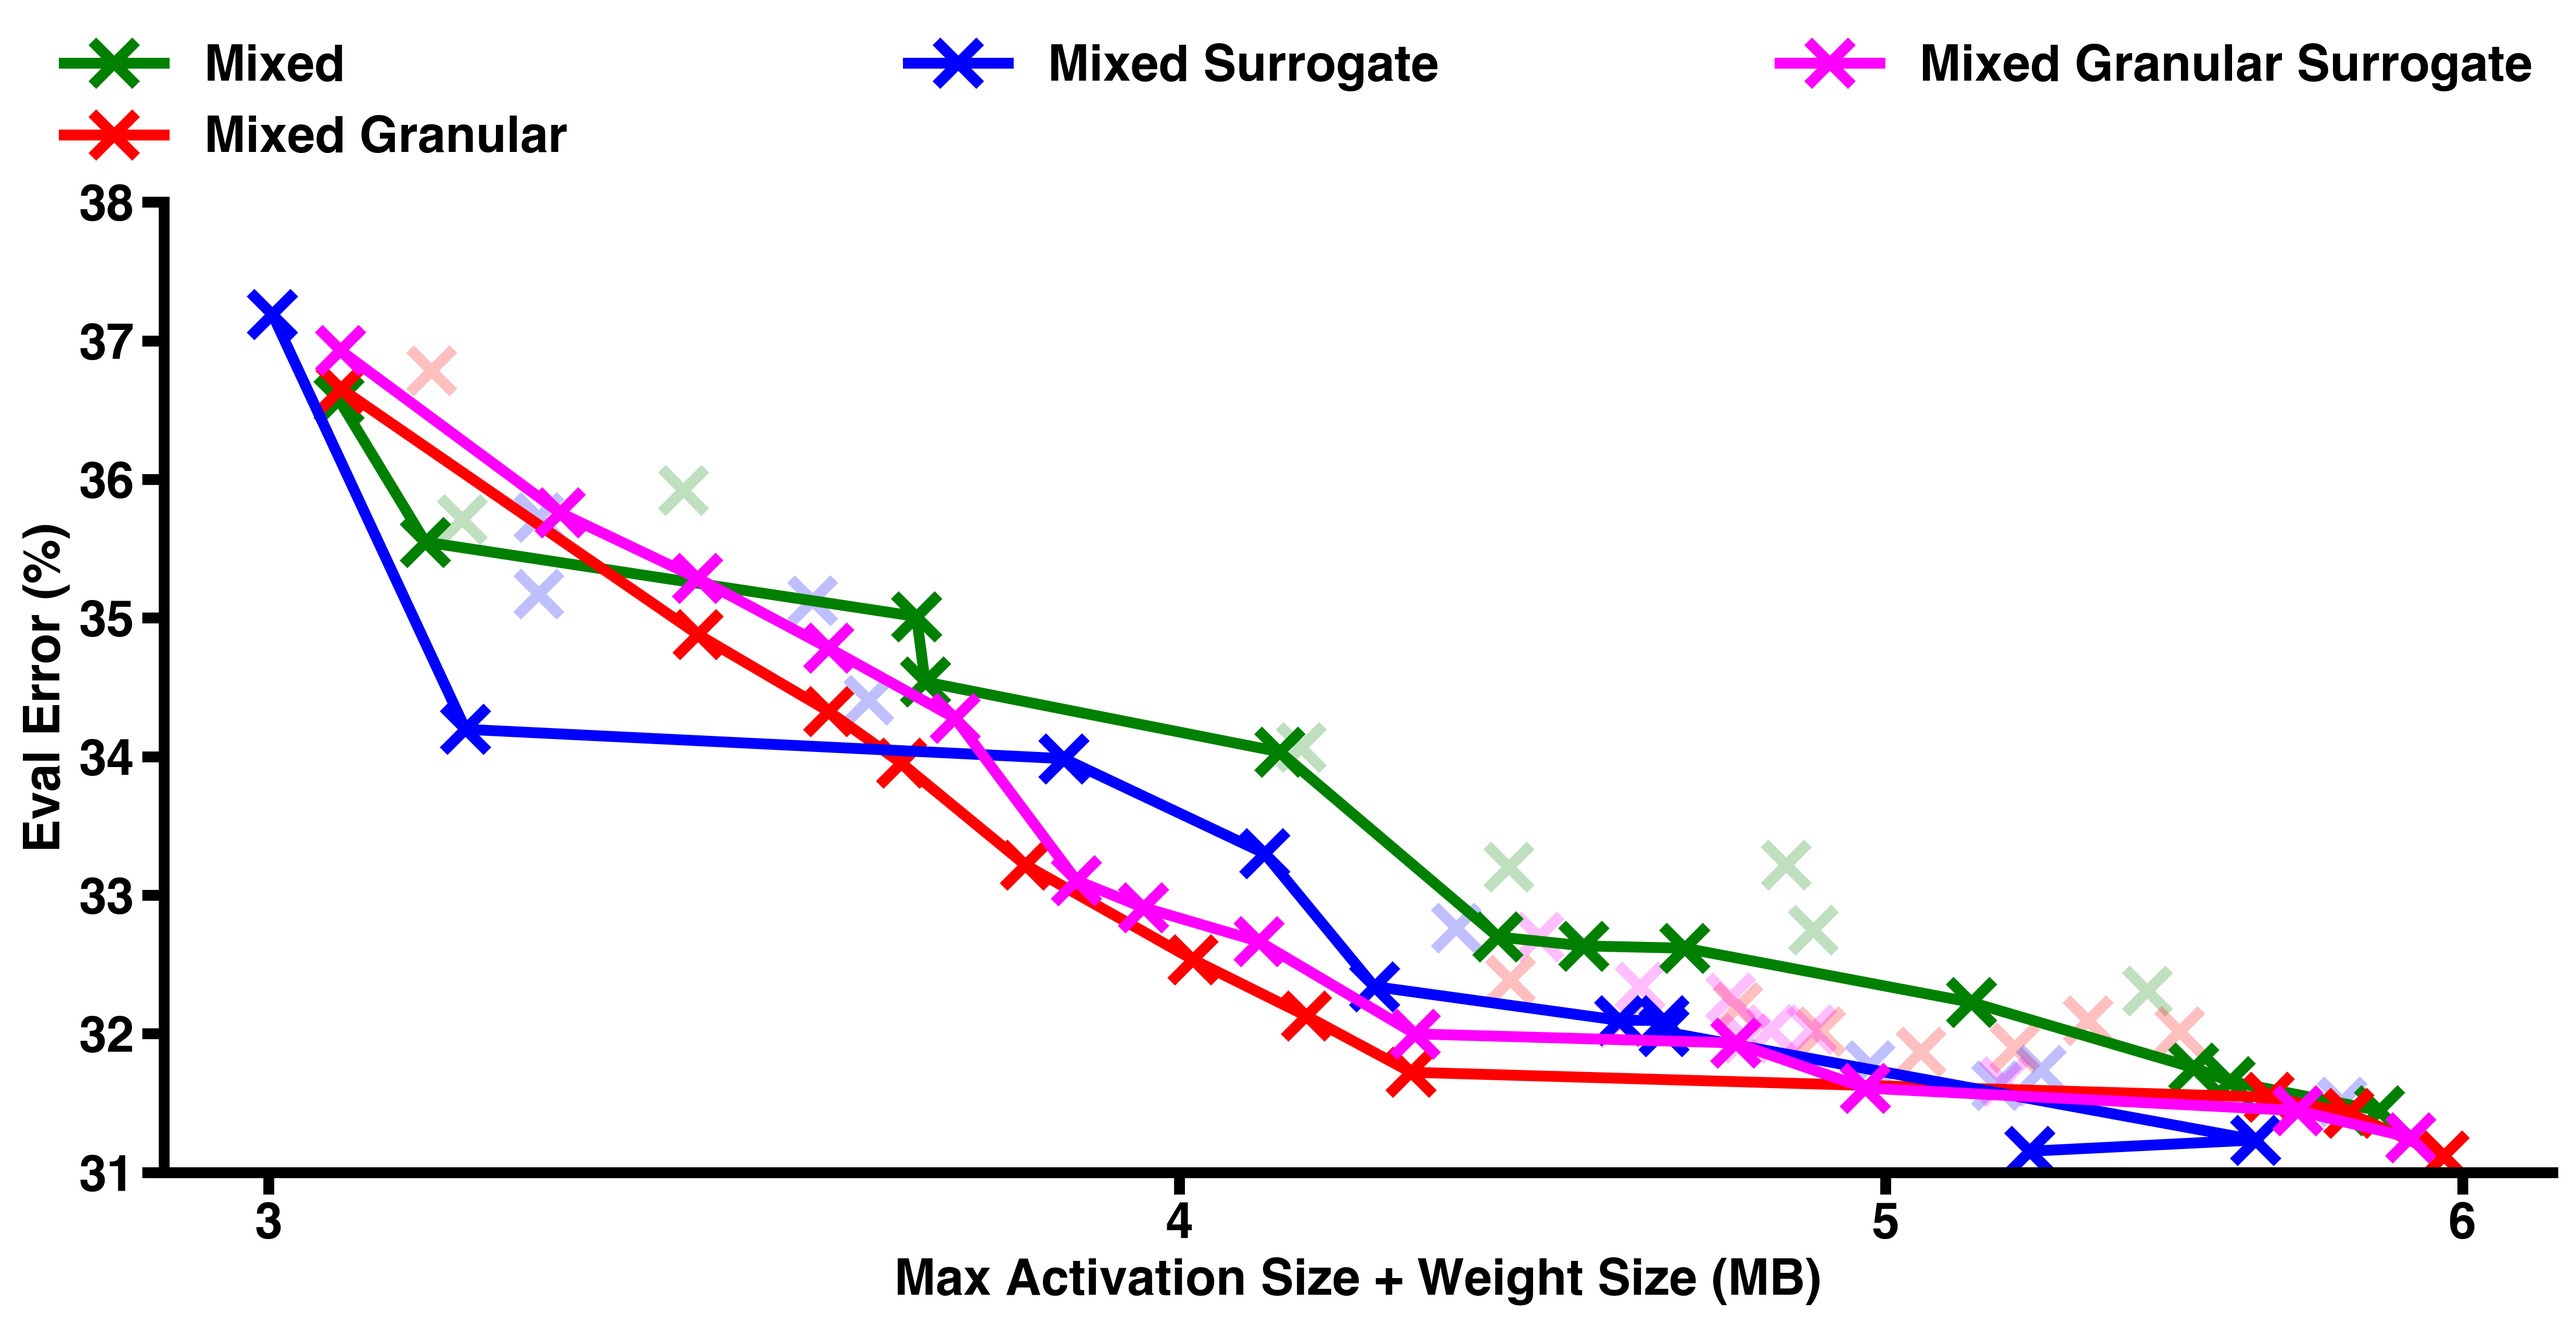
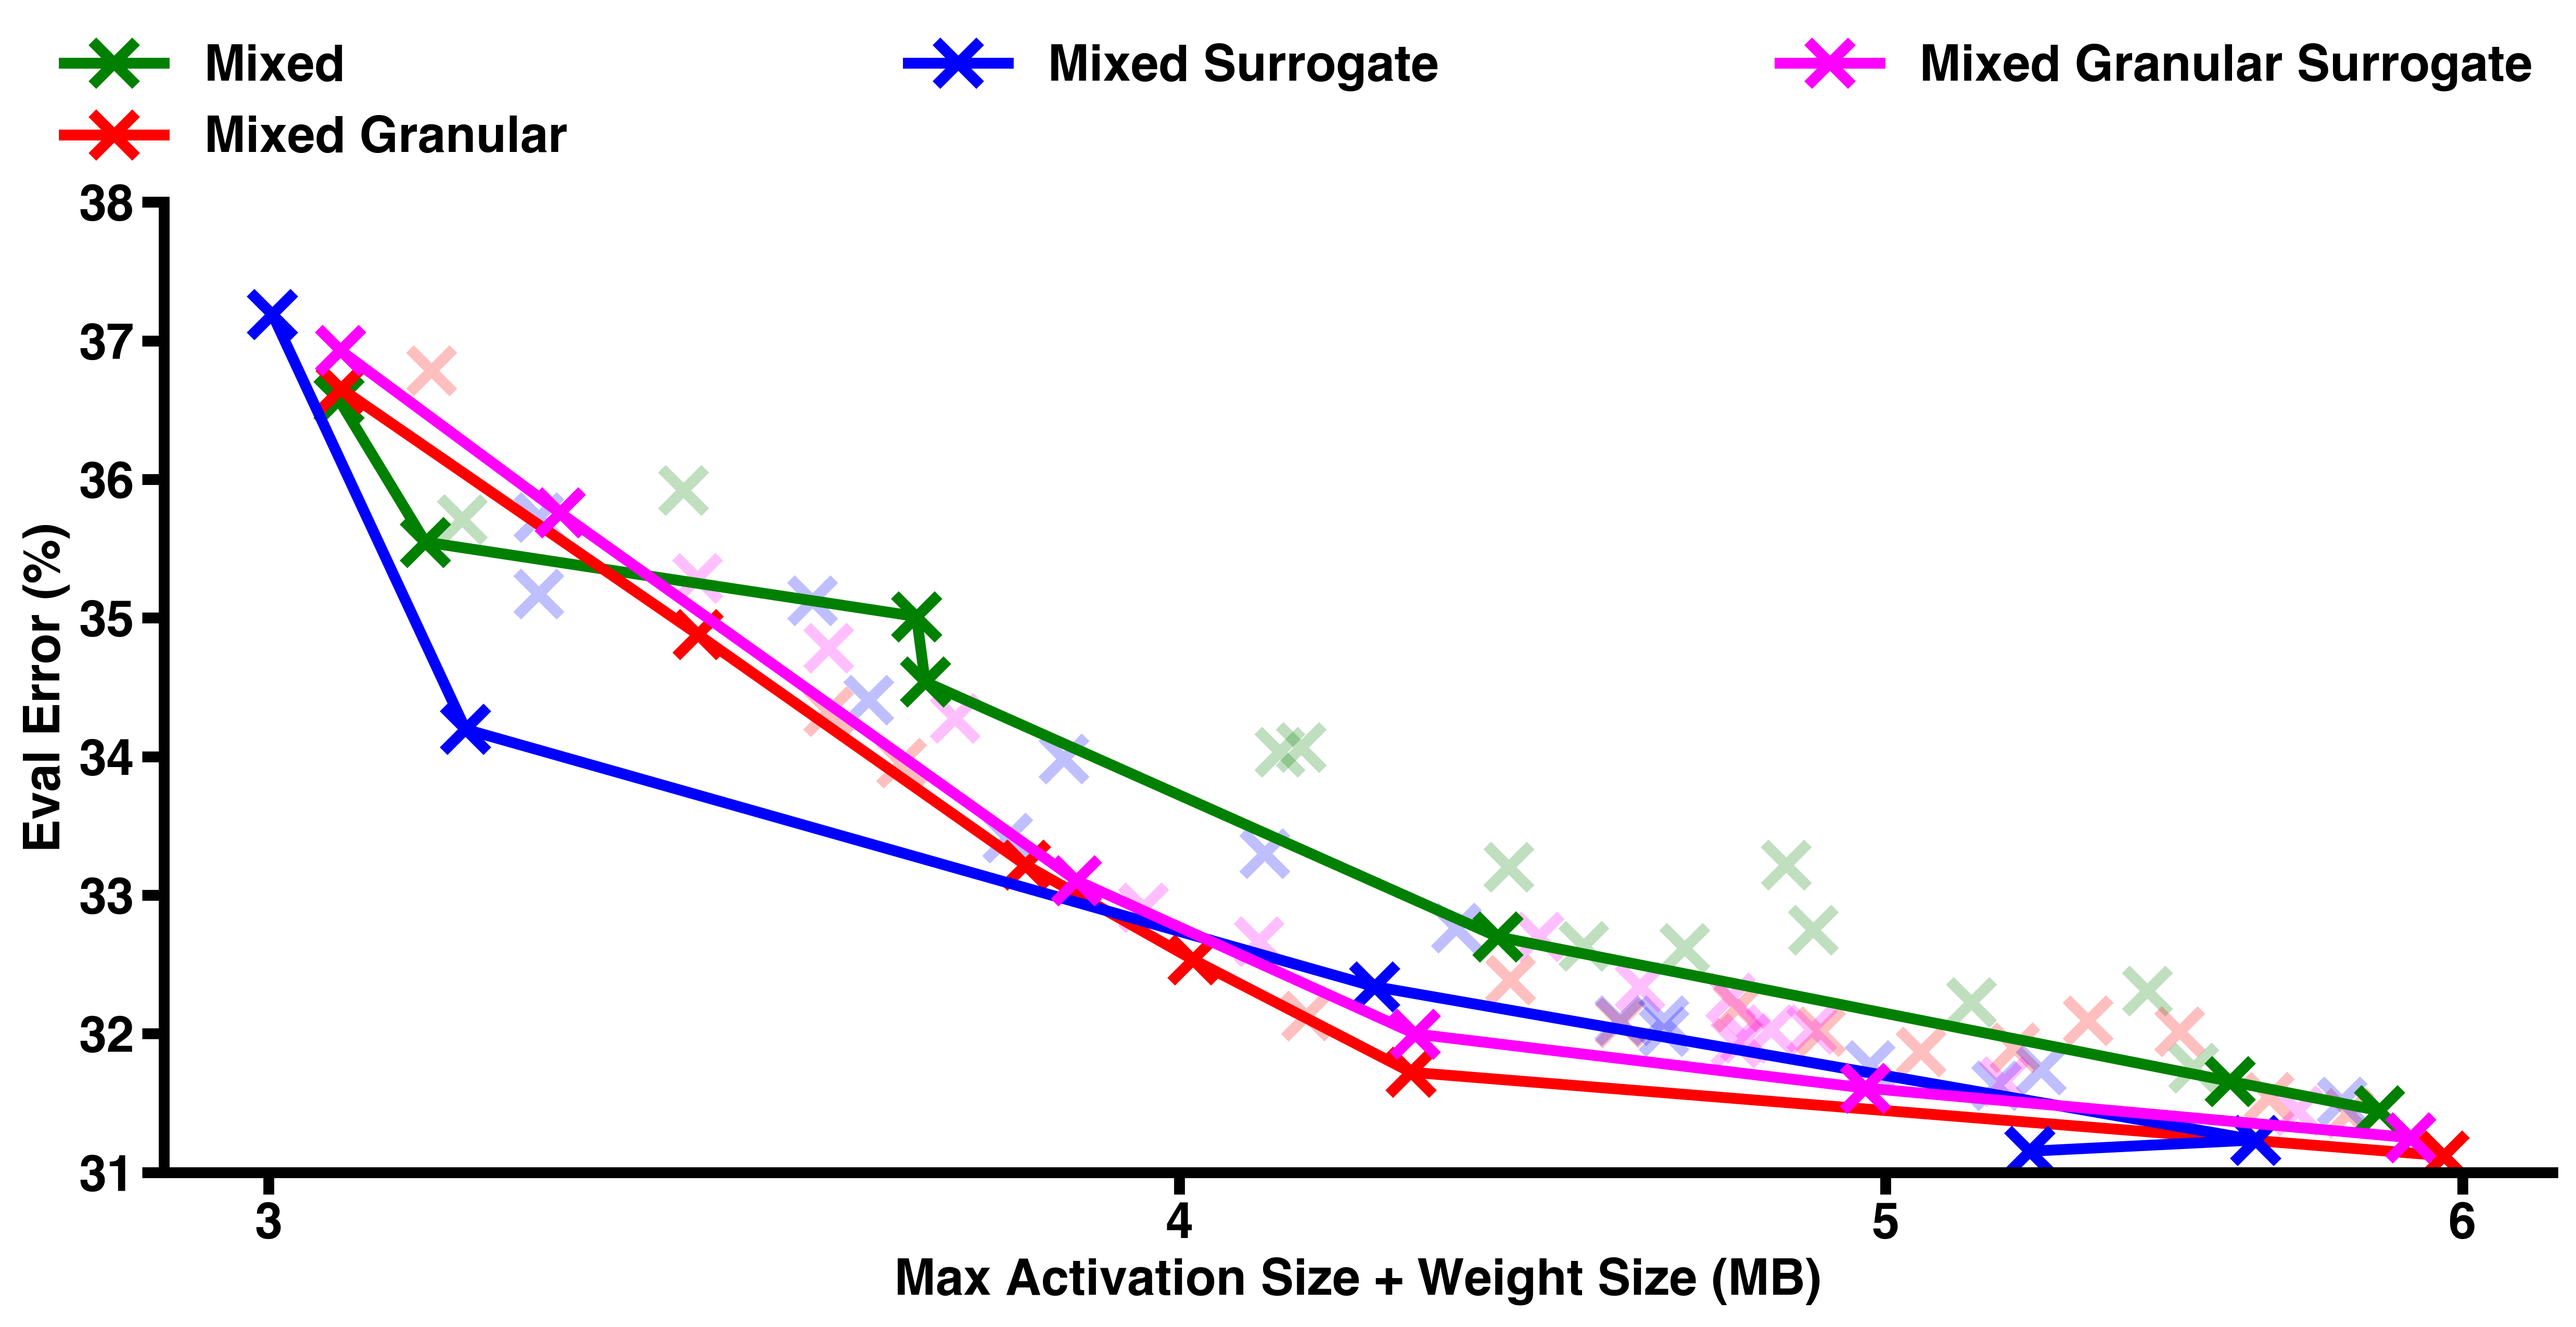
normal - convex hull

Changed region(s): [[0.1867, 0.4027, 0.9333, 0.8675]]

diff --git a/examples/resnet/visualization.py b/examples/resnet/visualization.py
@@ -94,33 +94,54 @@ competitors = {
 }
 
 
-def inefficient_frontier(file, x_axis="Weight Size", y_axis="Error",
+def slope(df, first, second, x_axis, y_axis):
+  rise = df.at[second, y_axis] - df.at[first, y_axis]
+  run = df.at[second, x_axis] - df.at[first, x_axis]
+  return rise / run
+
+def lower_convex_hull(input_file, x_axis="Weight Size", y_axis="Error",
                          summing=None):
-  df = pd.read_csv(file)
+  df = pd.read_csv(input_file)
   df['Error'] = 1 - df['Accuracy']
   if summing:
     df['Sum'] = sum(df[item] for item in summing)
   df = df.sort_values(x_axis)
   frontier = []
   for index, row in df.iterrows():
-    if not len(frontier) or row[y_axis] <= df.at[frontier[-1], y_axis]:
+    if len(frontier) == 0:
       frontier.append(index)
+      continue
+    if len(frontier) == 1 and row[y_axis] <= df.at[frontier[-1], y_axis]:
+      frontier.append(index)
+      continue
+    new_slope = slope(df, frontier[-1], index, x_axis, y_axis)
+    if new_slope > 0:
+      continue
+    old_slope = slope(df, frontier[-2], frontier[-1], x_axis, y_axis)
+    while new_slope < old_slope:
+      frontier.pop()
+      if len(frontier) < 2:
+        break
+      new_slope = slope(df, frontier[-1], index, x_axis, y_axis)
+      old_slope = slope(df, frontier[-2], frontier[-1], x_axis, y_axis)
+    frontier.append(index)
+
   return [list(thing) for thing in (df.iloc[frontier][x_axis] / 1000,
           df.iloc[frontier][y_axis] * 100,
           df.iloc[~df.index.isin(frontier)][x_axis] / 1000,
           df.iloc[~df.index.isin(frontier)][y_axis] * 100)]
 
 
-resnet_mixed = inefficient_frontier(
+resnet_mixed = lower_convex_hull(
     'figures/resnet18_mixed.csv', x_axis='Sum', y_axis="Error",
     summing=['Act Size Max', 'Weight Size'])
-resnet_mixed_gran = inefficient_frontier(
+resnet_mixed_gran = lower_convex_hull(
     'figures/resnet18_mixed_gran.csv', x_axis='Sum', y_axis="Error",
     summing=['Act Size Max', 'Weight Size'])
-resnet_mixed_sur = inefficient_frontier(
+resnet_mixed_sur = lower_convex_hull(
     'figures/resnet18_mixed_sur.csv', x_axis='Sum', y_axis="Error",
     summing=['Act Size Max', 'Weight Size'])
-resnet_mixed_sur_gran = inefficient_frontier(
+resnet_mixed_sur_gran = lower_convex_hull(
     'figures/resnet18_mixed_sur_gran.csv', x_axis='Sum', y_axis="Error",
     summing=['Act Size Max', 'Weight Size'])
 
